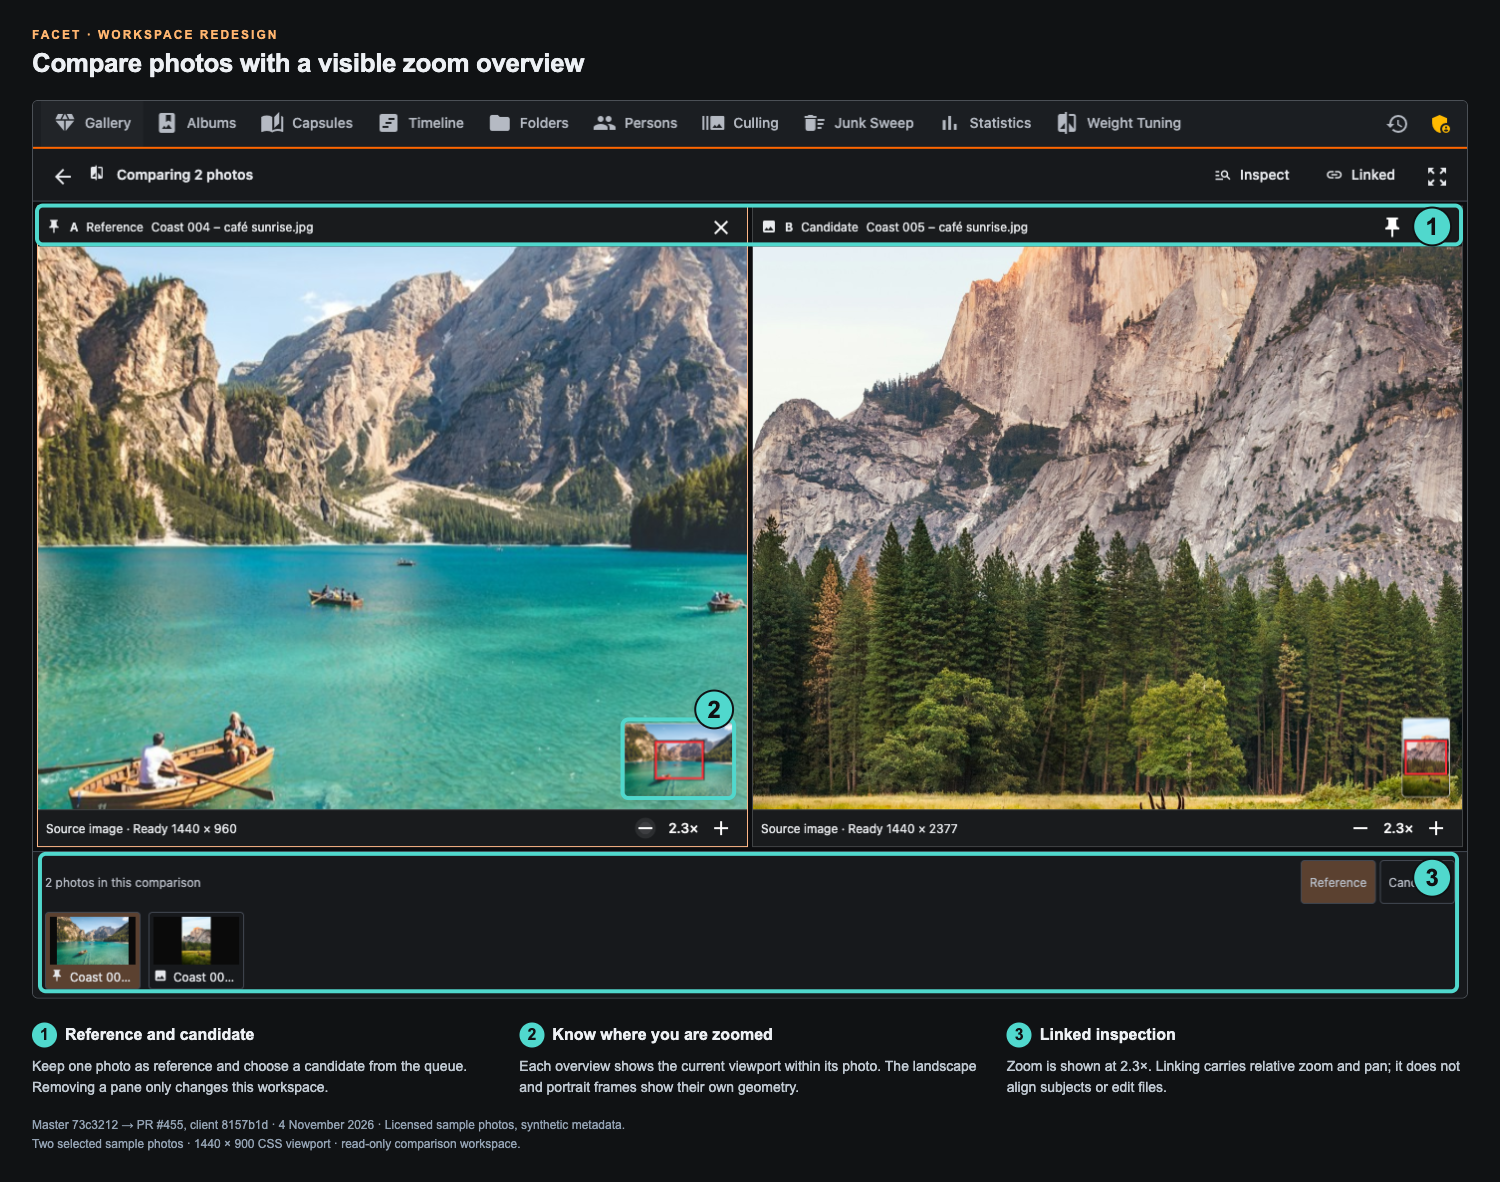
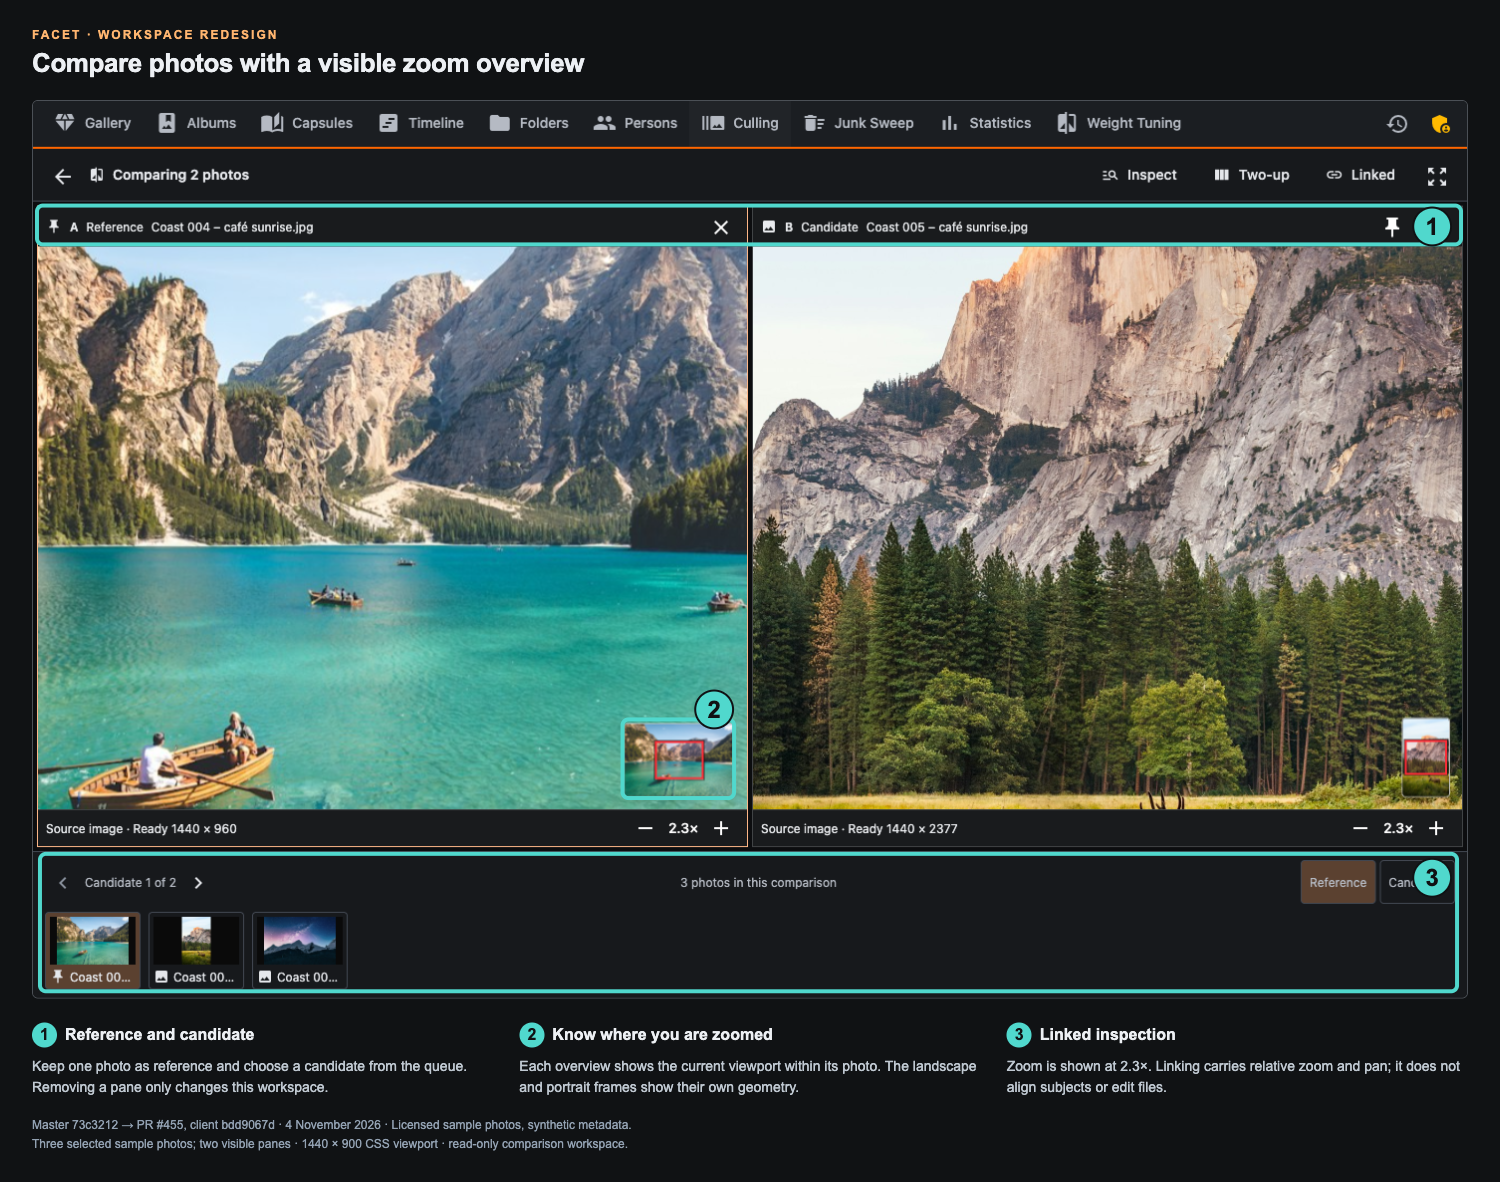
docs: refresh all comparisons from final review build

diff --git a/2026-11-04/README.md b/2026-11-04/README.md
@@ -1,7 +1,7 @@
 # Facet workspace screenshots · 4 November 2026
 
 Before: upstream master `73c3212ee8609634603b048c7dfe6265bba321ff`.
-After: PR #455 client `8157b1d1f58c871cf2b3db046a0c597d3957b80b`.
+After: PR #455 client `bdd9067dc93fa8c229374c48f191e30e71c3f161`.
 
 The before and after servers use equivalent, disposable copies of the same sample library. Phone captures show both notice stacks collapsed, so their timing is matched. Desktop captures use a 1440 × 900 CSS viewport; phone captures use 390 × 844. Both use dark mode, aggregate sort, grid layout and a 240px thumbnail setting. Browser screenshot scaling determines the exported pixel dimensions recorded in manifest.json.
 
@@ -9,10 +9,12 @@ The before and after servers use equivalent, disposable copies of the same sampl
 - photo-comparison.png: the same Coast 004 photo; the PR collection sidebar is expanded to 320px.
 - phone-comparison.png: matched phone galleries.
 - comparison-workspace.png: the new read-only comparison workspace at 2.3× linked zoom, with reference, candidate queue and viewport overview callouts.
-- preview-workflows.png: detail crops of the rating preview and a successful two-file culling dry-run. These are two different dialogs, not a before/after pair. Both were cancelled; no rating or file operation was applied.
+- preview-workflows.png: detail crops of the rating preview and a successful RAW/JPEG culling dry-run for one selected photo affecting two files. The rating preview shows two photos with observed 3- and 4-star values and a proposed 2-star edit. The culling preview shows one selected logical photo and both affected physical files, including the unavailable RAW thumbnail fallback. These are two different dialogs, not a before/after pair. Both were cancelled; no rating or file operation was applied.
 
 Numbered outlines, arrows, captions and cropping are presentation annotations over unmodified browser screenshots. Original viewport captures and native dialog-element captures are in [raw/](raw/). SHA-256 hashes and dimensions are in [manifest.json](manifest.json).
 
 The sample photos are licensed Unsplash images; see [photo-credits.json](../photo-credits.json) and the [Unsplash license](https://unsplash.com/license). Filenames, dates, scores and decisions are synthetic fixture data, not model evaluations. A RAW placeholder exercises companion handling. Gallery counts differ because the PR groups that RAW/JPEG pair as one logical photo. No private library images or account data are included. Temporary paths visible in the culling dialog belong to the disposable fixture.
 
 These media assets are stored separately from the application PR diff.
+
+All after images were recaptured from the final client build. Both dialogs were cancelled; the destination stayed empty and the original 3- and 4-star values were verified unchanged.
